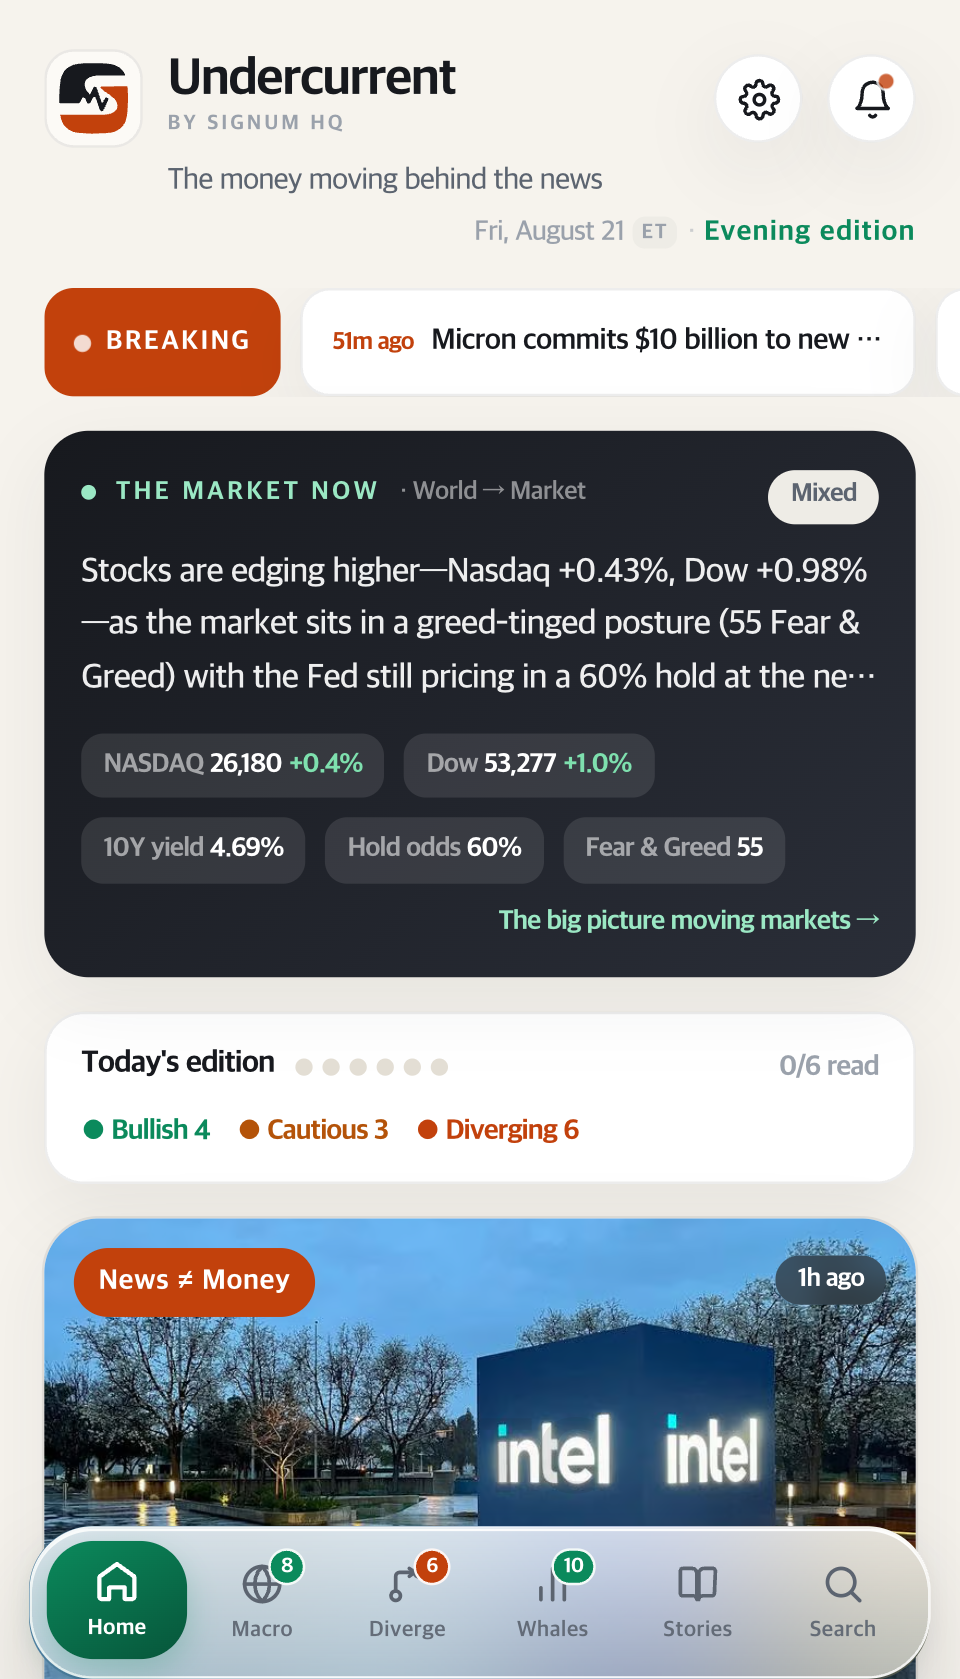
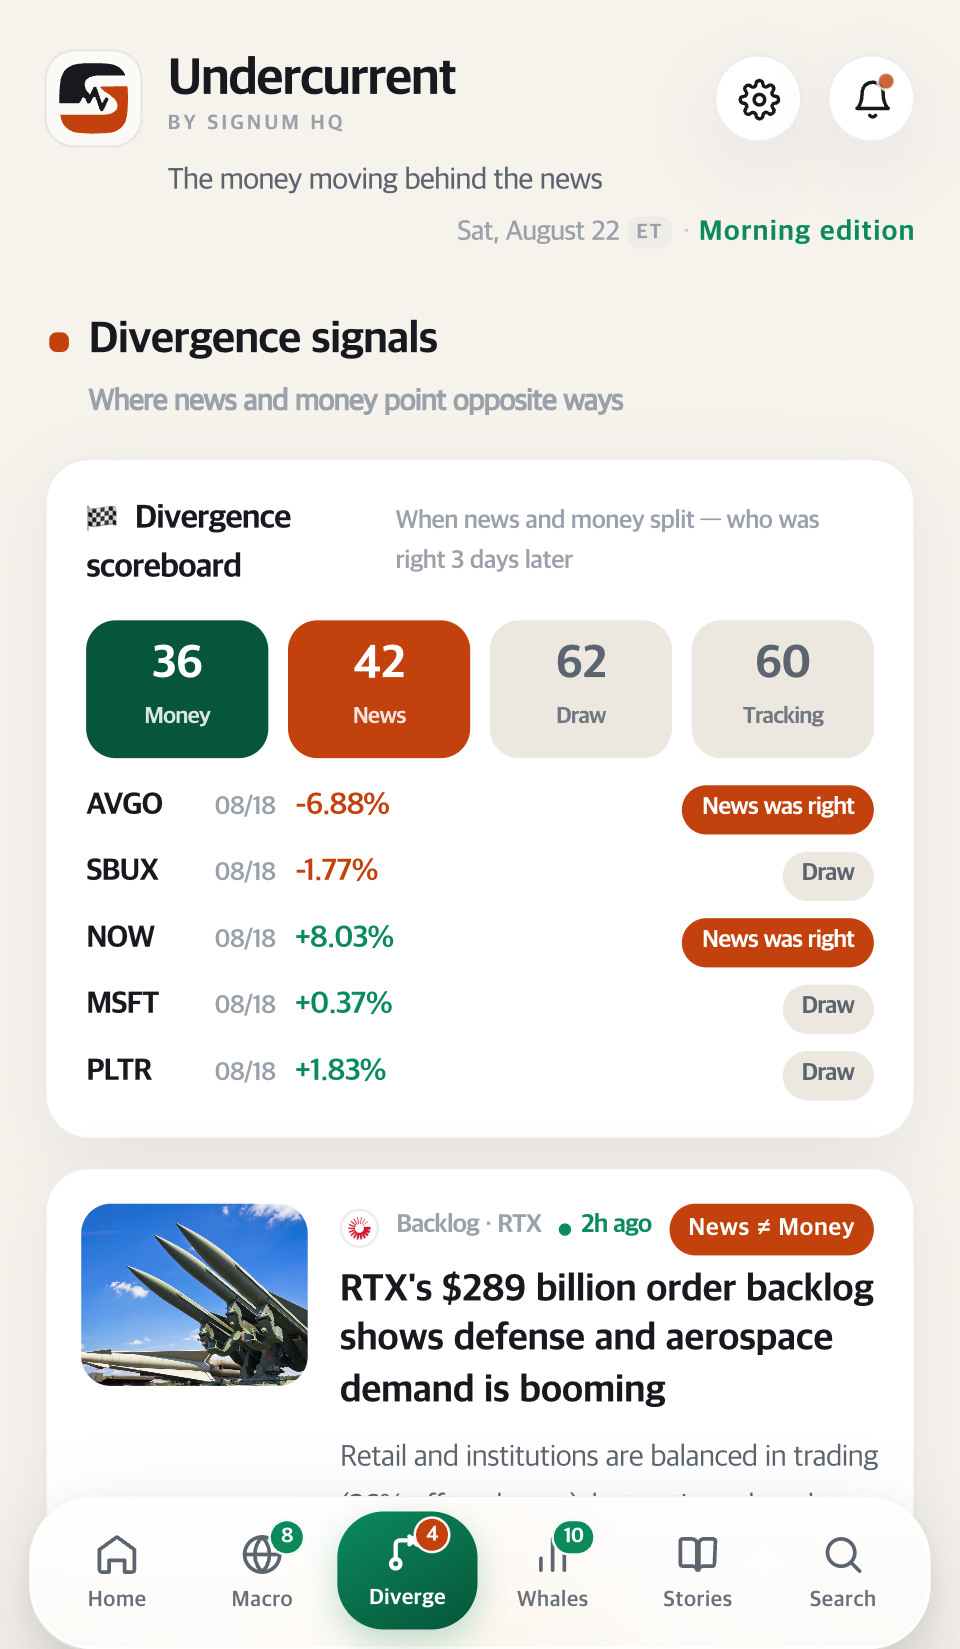
프로덕트헌트 런치 자산 — 가로 갤러리 공장 + 실화면 캡처(«바뀌었는지» 검증 포함)
3앱 전부 PH 예약(UC 8/23 · SIGNUM 8/26 · WIM 8/30). 그 과정에서 두 가지를 새로 만들었다.

1) scripts/make-ph-gallery.py — 1270x760 «가로» 갤러리 생성
   세로 1080x1920 스토어샷을 그대로 넣으면 좌우가 레터박스가 되고,
   PH 는 «첫 장을 소셜 프리뷰»로도 쓰기 때문에 여기서 대충 하면 공유 카드까지 망가진다.
   앱별 팔레트(THEMES)로 분기 — 셋이 같은 색이면 스토어에서 다른 앱으로 안 읽힌다.

2) scripts/capture-{uc,wim}-tabs.js — 실화면 캡처
   ★ 기존 make-promo-shots.js 의 탭 이동이 «조용히» 실패해서
     diverge·whales 로 저장된 3장이 전부 홈 화면이었다(갤러리 3장 중 2장이 같은 화면).
     그래서 여기서는 클릭 후 «화면이 실제로 바뀌었는지»를 DOM 텍스트로 확인하고
     안 바뀌면 실패로 남긴다. 조용한 실패를 허용하지 않는다.
   ★ 탭 라벨엔 배지 숫자가 붙어 textContent 가 "6Diverge" 가 된다 → 앵커 고정 금지.
   ★ WIM 은 온보딩 오버레이 + 앱 내부 로케일이 URL 로케일을 이긴다 → 건너뛰기 후 재로드.

diff --git a/scripts/capture-wim-tabs.js b/scripts/capture-wim-tabs.js
@@ -1,0 +1,95 @@
+#!/usr/bin/env node
+// ============================================================================
+// capture-wim-tabs — WIM 실화면 캡처
+// ----------------------------------------------------------------------------
+// 함정 두 개 (2026-08-22 실측):
+//   ① 온보딩 오버레이가 먼저 뜬다 → «건너뛰기» 를 눌러야 본화면이 나온다
+//   ② /en/wim 으로 가도 앱 내부 로케일 저장소가 한국어를 이긴다
+//      → localStorage 를 심고 «다시» 로드해야 영어가 된다
+// 각 단계마다 «정말 바뀌었는지» 를 확인하고, 아니면 실패로 남긴다.
+// ============================================================================
+const puppeteer = require('puppeteer');
+const path = require('path');
+const BASE = 'https://www.signumhq.com';
+const OUT = path.join(__dirname, '..', 'promo-shots', '_raw');
+const VIEW = { w: 390, h: 658, dsf: 2.4616 };
+const sleep = (ms) => new Promise((r) => setTimeout(r, ms));
+
+const clean = (page) => page.evaluate(() => {
+  document.querySelectorAll('.app-anchor-ad,[aria-label="Sponsored"],[id*="google_ads"],iframe[src*="ads"]').forEach((e) => e.remove());
+  document.documentElement.style.setProperty('--app-anchor-ad-height', '0px');
+  document.documentElement.style.setProperty('--app-tabbar-lift', '0px');
+  document.documentElement.style.setProperty('--app-bottom-safe', '0px');
+  window.scrollTo(0, 0);
+});
+
+const cropAt = (page) => page.evaluate(() => {
+  const bars = [...document.querySelectorAll('nav,[class*="tabbar"],[class*="tab-bar"],[class*="bottom-nav"]')];
+  const b = bars.map((e) => e.getBoundingClientRect()).filter((r) => r.height > 30 && r.bottom > 300).pop();
+  return b ? Math.min(window.innerHeight, Math.ceil(b.bottom)) : window.innerHeight;
+});
+
+const clickText = (page, re) => page.evaluate((src) => {
+  const rx = new RegExp(src.source, src.flags);
+  const el = [...document.querySelectorAll('button,a,[role="button"],[role="tab"]')]
+    .find((b) => rx.test((b.textContent || '').trim()));
+  if (!el) return false; el.click(); return true;
+}, { source: re.source, flags: re.flags });
+
+(async () => {
+  const browser = await puppeteer.launch({ headless: 'new', args: ['--no-sandbox'] });
+  const page = await browser.newPage();
+  await page.setViewport({ width: VIEW.w, height: VIEW.h + 24, deviceScaleFactor: VIEW.dsf });
+
+  await page.goto(`${BASE}/en/wim`, { waitUntil: 'domcontentloaded', timeout: 90000 });
+  await page.evaluate(() => { try {
+    ['signumhq.locale', 'wim.locale', 'app.locale'].forEach((k) => localStorage.setItem(k, 'en'));
+  } catch {} });
+  await page.goto(`${BASE}/en/wim`, { waitUntil: 'networkidle2', timeout: 90000 });
+  await sleep(8000);
+
+  // 온보딩 건너뛰기 — 최대 4번 (다음 → 이 여러 장일 수 있다)
+  for (let i = 0; i < 4; i++) {
+    const skipped = await clickText(page, /건너뛰기|^skip$|スキップ/i);
+    if (!skipped) break;
+    await sleep(1500);
+  }
+  await sleep(2500);
+
+  const lang = await page.evaluate(() => document.body.innerText.slice(0, 200));
+  console.log(`로케일 확인: ${lang.split('\n').filter(Boolean).slice(0,3).join(' | ').slice(0,90)}`);
+
+  await clean(page); await sleep(600);
+  await page.screenshot({ path: path.join(OUT, 'wim-home-en.png'), clip: { x:0, y:0, width: VIEW.w, height: await cropAt(page) } });
+  console.log('✓ wim-home-en.png');
+
+  // 퀴즈 화면 — 첫 문제를 연다
+  const before = await page.evaluate(() => document.body.innerText.slice(0, 300));
+  const opened = await clickText(page, /start|begin|play|오늘의|today/i);
+  if (opened) {
+    await sleep(4000);
+    const after = await page.evaluate(() => document.body.innerText.slice(0, 300));
+    if (after !== before) {
+      await clean(page); await sleep(500);
+      await page.screenshot({ path: path.join(OUT, 'wim-quiz-en.png'), clip: { x:0, y:0, width: VIEW.w, height: await cropAt(page) } });
+      console.log('✓ wim-quiz-en.png');
+    } else console.error('✗ quiz: 화면 안 바뀜');
+  } else console.error('✗ quiz: 시작 버튼 없음');
+
+  // Library 탭 — 세 번째 갤러리 컷
+  await page.goto(`${BASE}/en/wim`, { waitUntil: 'networkidle2', timeout: 90000 });
+  await sleep(7000);
+  for (let i = 0; i < 4; i++) { if (!(await clickText(page, /건너뛰기|^skip$|スキップ/i))) break; await sleep(1200); }
+  const b2 = await page.evaluate(() => document.body.innerText.slice(0, 300));
+  if (await clickText(page, /^library$/i)) {
+    await sleep(4000);
+    const a2 = await page.evaluate(() => document.body.innerText.slice(0, 300));
+    if (a2 !== b2) {
+      await clean(page); await sleep(500);
+      await page.screenshot({ path: path.join(OUT, 'wim-library-en.png'), clip: { x:0, y:0, width: VIEW.w, height: await cropAt(page) } });
+      console.log('✓ wim-library-en.png');
+    } else console.error('✗ library: 화면 안 바뀜');
+  } else console.error('✗ library: 버튼 없음');
+
+  await browser.close();
+})();

diff --git a/scripts/capture-uc-tabs.js b/scripts/capture-uc-tabs.js
@@ -1,0 +1,88 @@
+#!/usr/bin/env node
+// ============================================================================
+// capture-uc-tabs — UC «Diverge / Whales» 탭 실화면 캡처
+// ----------------------------------------------------------------------------
+// 왜 별도 스크립트인가 (2026-08-22 실측):
+//   make-promo-shots.js 의 탭 이동이 조용히 실패해서 diverge·whales 로 저장된
+//   3장이 «전부 홈 화면»이었다. 갤러리 3장 중 2장이 같은 화면이면
+//   «화면이 하나뿐인 앱»으로 보인다 — 발견 못 했으면 그대로 나갈 뻔했다.
+//
+// 여기서는 탭 클릭 후 «화면이 실제로 바뀌었는지»를 DOM 텍스트로 확인하고,
+// 안 바뀌면 실패로 종료한다. 조용한 실패를 허용하지 않는다.
+// ============================================================================
+const puppeteer = require('puppeteer');
+const path = require('path');
+
+const BASE = 'https://www.signumhq.com';
+const OUT = path.join(__dirname, '..', 'promo-shots', '_raw');
+const VIEW = { w: 390, h: 658, dsf: 2.4616 };
+const sleep = (ms) => new Promise((r) => setTimeout(r, ms));
+
+const TABS = [
+  { key: 'diverge', label: /diverge/i },
+  { key: 'whales', label: /whales/i },
+  { key: 'stories', label: /stories/i },
+];
+
+(async () => {
+  const browser = await puppeteer.launch({ headless: 'new', args: ['--no-sandbox'] });
+  const page = await browser.newPage();
+  await page.setViewport({ width: VIEW.w, height: VIEW.h + 24, deviceScaleFactor: VIEW.dsf });
+
+  await page.goto(`${BASE}/en/undercurrent`, { waitUntil: 'domcontentloaded', timeout: 90000 });
+  await page.evaluate(() => {
+    try {
+      localStorage.setItem('signumhq.locale', 'en');
+      localStorage.setItem('undercurrent.locale', 'en');
+      localStorage.setItem('uc.onboarded', '1');
+    } catch {}
+  });
+
+  for (const t of TABS) {
+    await page.goto(`${BASE}/en/undercurrent`, { waitUntil: 'networkidle2', timeout: 90000 });
+    await sleep(7000);
+
+    const before = await page.evaluate(() => document.body.innerText.slice(0, 400));
+
+    const clicked = await page.evaluate((src) => {
+      const re = new RegExp(src.source, src.flags);
+      const nav = document.querySelector('nav') || document.body;
+      const btn = [...nav.querySelectorAll('button, a, [role="tab"]')]
+        .find((b) => re.test((b.textContent || '').trim()));
+      if (!btn) return false;
+      btn.click();
+      return true;
+    }, { source: t.label.source, flags: t.label.flags });
+
+    if (!clicked) { console.error(`✗ ${t.key}: 탭 버튼을 못 찾음`); process.exitCode = 1; continue; }
+    await sleep(4500);
+
+    const after = await page.evaluate(() => document.body.innerText.slice(0, 400));
+    if (after === before) { console.error(`✗ ${t.key}: 클릭했지만 화면이 안 바뀜`); process.exitCode = 1; continue; }
+
+    // 광고 제거 + 탭바 밀착 (프로모 이미지에 광고가 들어가면 안 된다)
+    await page.evaluate(() => {
+      document.querySelectorAll('.app-anchor-ad, [aria-label="Sponsored"], .uc-ad, [id*="google_ads"], iframe[src*="ads"]')
+        .forEach((el) => el.remove());
+      document.documentElement.style.setProperty('--app-anchor-ad-height', '0px');
+      document.documentElement.style.setProperty('--uc-ad-h', '0px');
+      document.documentElement.style.setProperty('--app-tabbar-lift', '0px');
+      document.documentElement.style.setProperty('--app-bottom-safe', '0px');
+      window.scrollTo(0, 0);
+    });
+    await sleep(700);
+
+    // 탭바 하단을 실측해 거기서 자른다 — 아래로 새는 스크롤 콘텐츠를 막는다
+    const cropCss = await page.evaluate(() => {
+      const bars = [...document.querySelectorAll('nav, [class*="tabbar"], [class*="tab-bar"], [class*="bottom-nav"]')];
+      const b = bars.map((e) => e.getBoundingClientRect()).filter((r) => r.height > 30 && r.bottom > 300).pop();
+      return b ? Math.min(window.innerHeight, Math.ceil(b.bottom)) : window.innerHeight;
+    });
+
+    const out = path.join(OUT, `uc-${t.key}-en.png`);
+    await page.screenshot({ path: out, clip: { x: 0, y: 0, width: VIEW.w, height: cropCss } });
+    console.log(`✓ ${t.key} → ${path.basename(out)}  (첫줄: ${after.split('\n')[0].slice(0, 46)})`);
+  }
+
+  await browser.close();
+})();

diff --git a/scripts/make-ph-gallery.py b/scripts/make-ph-gallery.py
@@ -1,0 +1,214 @@
+#!/usr/bin/env python3
+# ============================================================================
+# make-ph-gallery — Product Hunt 갤러리용 «가로» 이미지 생성 (1270x760)
+# ----------------------------------------------------------------------------
+# 왜 따로 만드나:
+#   우리 스토어 자산은 1080x1920 세로다. PH 갤러리는 가로 카드라 세로를 넣으면
+#   좌우가 통째로 빈 레터박스가 되고, 첫 장은 «링크 공유 시 소셜 프리뷰»로도
+#   쓰이기 때문에 여기서 대충 하면 트위터/슬랙 카드까지 같이 망가진다.
+#
+# 구성: 브랜드 그라디언트 + 좌측 카피 + 우측 실기기 화면(라운드+그림자, 하단 블리드)
+#   · 화면은 광고를 이미 제거한 _raw 캡처를 쓴다 (960x1679)
+#   · aggregate 문구·수치는 실제 값만 쓴다 (595 티커는 실측 커버리지)
+# ============================================================================
+import os
+from PIL import Image, ImageDraw, ImageFilter
+
+ROOT = os.path.dirname(os.path.dirname(os.path.abspath(__file__)))
+RAW = os.path.join(ROOT, 'promo-shots', '_raw')
+OUT = os.path.join(ROOT, 'promo-shots', 'ph')
+os.makedirs(OUT, exist_ok=True)
+
+W, H = 1270, 760
+
+# 앱별 팔레트 — 각 앱의 «실제 화면 색»에서 뽑았다. 셋을 같은 색으로 내면
+# 스토어에서 서로 다른 앱으로 안 읽힌다.
+THEMES = {
+    'uc':     dict(top=(11, 107, 87),  bot=(9, 46, 34),   glow=(26, 150, 118),
+                   fg=(255,255,255), dim=(168,214,200), accent=(255,197,87), chip=(112,168,148), foot=(129,176,161)),
+    'signum': dict(top=(13, 27, 42),   bot=(5, 10, 18),   glow=(22, 58, 84),
+                   fg=(255,255,255), dim=(150,171,192), accent=(64, 224, 208), chip=(58,92,120),  foot=(110,130,152)),
+    'wim':    dict(top=(91, 75, 232),  bot=(38, 24, 110),  glow=(126, 110, 255),
+                   fg=(255,255,255), dim=(199,193,247), accent=(255,201,84), chip=(139,128,236), foot=(163,155,225)),
+}
+TH = THEMES['uc']
+BG_TOP, BG_BOT = TH['top'], TH['bot']
+FG, DIM, ACCENT = TH['fg'], TH['dim'], TH['accent']
+
+SFNS = '/System/Library/Fonts/SFNS.ttf'
+from PIL import ImageFont
+
+def sf(size, weight='Heavy'):
+    f = ImageFont.truetype(SFNS, size)
+    try:
+        f.set_variation_by_name(weight)
+    except Exception:
+        pass
+    return f
+
+def vgrad(size, top, bot):
+    w, h = size
+    g = Image.new('RGB', (1, h)); px = g.load()
+    for y in range(h):
+        t = y / max(1, h - 1)
+        px[0, y] = tuple(round(top[i] + (bot[i] - top[i]) * t) for i in range(3))
+    return g.resize((w, h), Image.BILINEAR)
+
+def rounded(size, r):
+    m = Image.new('L', size, 0)
+    ImageDraw.Draw(m).rounded_rectangle([0, 0, size[0]-1, size[1]-1], radius=r, fill=255)
+    return m
+
+def wrap(draw, text, font, max_w):
+    words, lines, cur = text.split(), [], ''
+    for w_ in words:
+        t = (cur + ' ' + w_).strip()
+        if draw.textlength(t, font=font) <= max_w:
+            cur = t
+        else:
+            if cur: lines.append(cur)
+            cur = w_
+    if cur: lines.append(cur)
+    return lines
+
+def card(raw_name, kicker, head, sub, out_name, chips=None, foot=None):
+    canvas = vgrad((W, H), TH['top'], TH['bot'])
+
+    # 은은한 방사형 하이라이트 — 평평한 그라디언트에 깊이를 준다
+    glow = Image.new('L', (W, H), 0)
+    ImageDraw.Draw(glow).ellipse([W*0.52, -H*0.35, W*1.25, H*0.95], fill=64)
+    canvas.paste(Image.new('RGB', (W, H), TH['glow']), (0, 0), glow.filter(ImageFilter.GaussianBlur(150)))
+
+    # ── 기기 화면 (우측, 하단으로 흘려보낸다)
+    if raw_name:
+        shot = Image.open(os.path.join(RAW, raw_name)).convert('RGB')
+        # 화면 «전체»가 들어가도록 높이를 맞춘다. 탭바가 캔버스 밖으로 반쯤
+        # 잘리면 «블리드»가 아니라 «실수»로 보인다(2026-08-22 육안 검증).
+        ph_h = 640
+        ph_w = round(ph_h * shot.width / shot.height)
+        shot = shot.resize((ph_w, ph_h), Image.LANCZOS)
+        r = 28
+        shot.putalpha(rounded((ph_w, ph_h), r))
+        x, y = W - 96 - ph_w, (H - ph_h) // 2
+
+        sh = Image.new('RGBA', (ph_w + 130, ph_h + 130), (0, 0, 0, 0))
+        ImageDraw.Draw(sh).rounded_rectangle([65, 65, ph_w + 65, ph_h + 65], radius=r, fill=(0, 0, 0, 120))
+        sh = sh.filter(ImageFilter.GaussianBlur(34))
+        canvas.paste(sh, (x - 65, y - 45), sh)
+        canvas.paste(shot, (x, y), shot)
+
+        edge = Image.new('RGBA', (ph_w, ph_h), (0, 0, 0, 0))
+        ImageDraw.Draw(edge).rounded_rectangle([0, 0, ph_w-1, ph_h-1], radius=r, outline=(255, 255, 255, 58), width=2)
+        canvas.paste(edge, (x, y), edge)
+        text_w = x - 96 - 84
+    else:
+        text_w = W - 200
+
+    # ── 카피 (좌측)
+    d = ImageDraw.Draw(canvas)
+    px = 84
+    f_kick = sf(23, 'Bold'); f_head = sf(62, 'Heavy'); f_sub = sf(27, 'Medium')
+
+    head_lines = wrap(d, head, f_head, text_w)
+    sub_lines = wrap(d, sub, f_sub, text_w)
+    block_h = 34 + 22 + len(head_lines) * 74 + 20 + len(sub_lines) * 40
+    y = (H - block_h) // 2
+
+    d.text((px, y), kicker.upper(), font=f_kick, fill=TH['accent'])
+    y += 34 + 22
+    for ln in head_lines:
+        d.text((px, y), ln, font=f_head, fill=TH['fg']); y += 74
+    y += 20
+    for ln in sub_lines:
+        d.text((px, y), ln, font=f_sub, fill=TH['dim']); y += 40
+
+    # 지표 칩 — «무엇이 들어있는지»를 말이 아니라 목록으로 보여준다
+    if chips:
+        y += 26
+        f_chip = sf(23, 'Semibold')
+        cx = px
+        for c in chips:
+            tw = d.textlength(c, font=f_chip)
+            cw, ch = tw + 34, 46
+            if cx + cw > px + text_w:
+                cx = px; y += ch + 12
+            d.rounded_rectangle([cx, y, cx + cw, y + ch], radius=23,
+                                fill=None, outline=TH['chip'], width=2)
+            d.text((cx + 17, y + 10), c, font=f_chip, fill=TH['fg'])
+            cx += cw + 12
+        y += 46
+    if foot:
+        y += 30
+        d.text((px, y), foot, font=sf(20, 'Regular'), fill=TH['foot'])
+
+    os.makedirs(OUT, exist_ok=True)
+    canvas.save(os.path.join(OUT, out_name), 'PNG', optimize=True)
+    print(f'  {out_name}  {canvas.size}  {os.path.getsize(os.path.join(OUT, out_name))//1024}KB')
+
+import sys
+APP = sys.argv[1] if len(sys.argv) > 1 else 'uc'
+TH = THEMES[APP]
+OUT = os.path.join(ROOT, 'promo-shots', 'ph', APP)
+print(f'Product Hunt 갤러리 [{APP}] (1270x760)')
+if APP == 'wim':
+    card('wim-home-en.png', "Why'd It Move?",
+         "Today's market, as a 30-second lesson",
+         'Every night, one US stock that actually moved that day — and the real 5-minute bars behind it.',
+         '1-hero.png')
+    card('wim-quiz-en.png', 'The question',
+         'Real move. Real chart. One question.',
+         'MRNA swung 8.9%. Analyst action? Sector rotation? Pick one, then find out what actually did it.',
+         '2-quiz.png')
+    card('wim-library-en.png', 'Library',
+         "A concept library, live on tonight's stock",
+         'RSI, VWAP, trend phase, short interest — basics through desk-grade, each showing the actual number for the stock in question.',
+         '3-library.png')
+    card(None, 'Free, no account',
+         'Three minutes a night.',
+         'English, Korean and Japanese. iOS and Android. No paywall, no sign-up.',
+         '4-coverage.png',
+         chips=['Real market data', 'Charts', 'Institutional flow', 'Macro', 'News reading'],
+         foot='Education only — not investment advice.')
+    raise SystemExit(0)
+
+if APP == 'signum':
+    card('signum-dash-en.png', 'SIGNUM HQ',
+         'Institutional market data, without the terminal',
+         'Dark pool share, options positioning and dealer gamma for US equities — free, refreshed through every session.',
+         '1-hero.png')
+    card('signum-guardian-en.png', 'Guardian',
+         'One number for where risk sits',
+         'RLSI reads momentum, participation and price trend together, so you see the regime before you see a ticker.',
+         '2-guardian.png')
+    card('signum-flow-en.png', 'Options flow',
+         'Max pain, gamma flip, premium — per ticker',
+         'NVDA at $214.72 with max pain at $210 and $9.6M of premium: the whole options picture on one screen.',
+         '3-flow.png')
+    card(None, 'Free, no account',
+         'Ten US sectors. Every session.',
+         'English, Korean and Japanese. iOS and Android. No paywall, no sign-up.',
+         '4-coverage.png',
+         chips=['Dark pool share', 'Max pain', 'Gamma exposure', 'Call wall',
+                'Unusual sweeps', 'IV skew', 'AI sector briefs'],
+         foot='Information and education only — not investment advice.')
+    raise SystemExit(0)
+
+card('uc-home-en.png', 'Undercurrent',
+     'The money behind the news',
+     'Every headline, paired with what institutional money actually did on that ticker that session.',
+     '1-hero.png')
+card('uc-diverge-en.png', 'Divergence',
+     'When news and money split, we keep score',
+     'Every divergence gets checked three days later, and the running tally stays on screen. Money 36, news 42, draw 62 — as of this morning.',
+     '2-divergence.png')
+card('uc-whales-en.png', 'Whale radar',
+     'How much traded off-exchange',
+     'The share of volume that never touched a lit exchange, per ticker, next to the story that moved it.',
+     '3-flow.png')
+card(None, 'Free, no account',
+     '595 US tickers. 2–3 editions a day.',
+     'English, Korean and Japanese. iOS and Android. No paywall, no sign-up.',
+     '4-coverage.png',
+     chips=['Dark pool share', 'Max pain', 'Call wall / put floor',
+            'Put-call ratio', 'Gamma exposure', 'Options flow'],
+     foot='Information and education only — not investment advice.')
